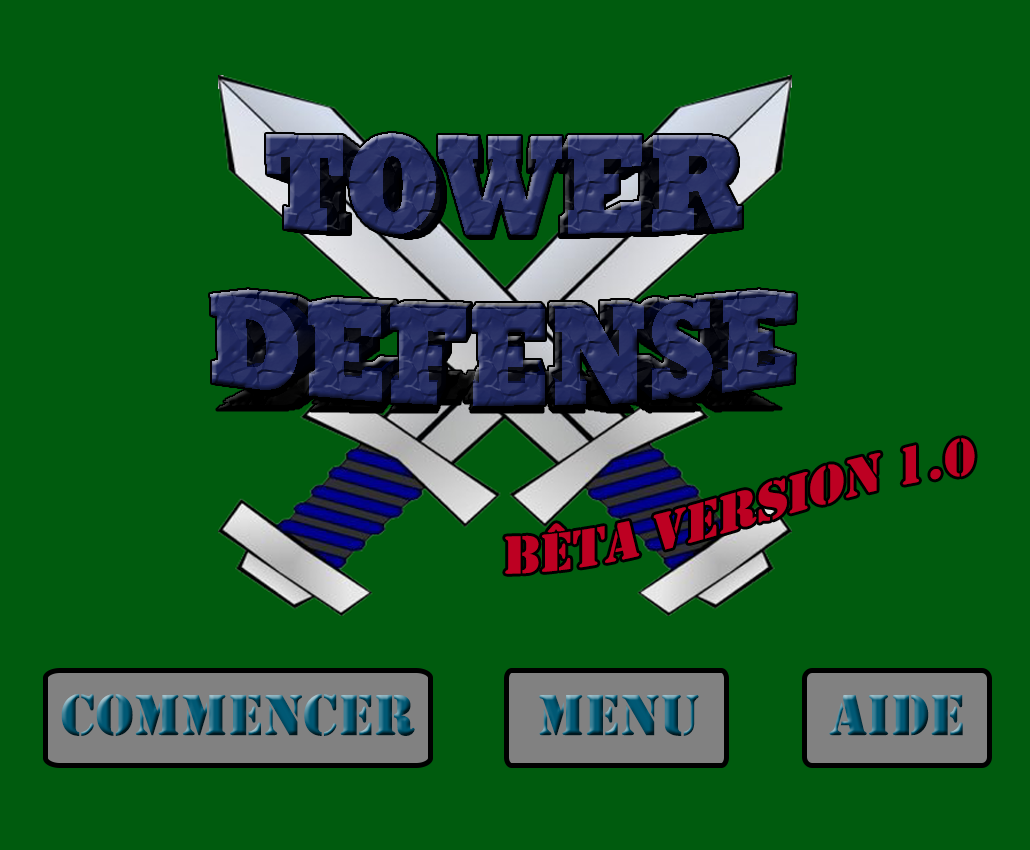
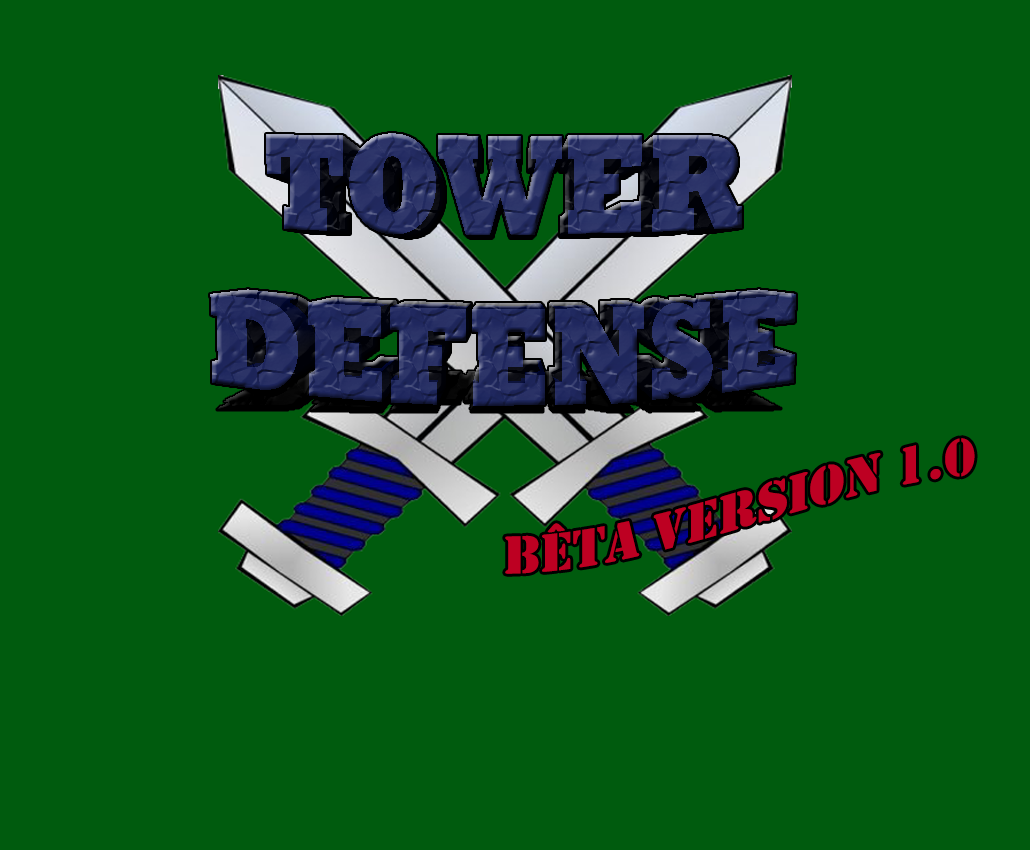
Debut responsive

Changed region(s): [[0.0311, 0.7647, 0.435, 0.9176], [0.466, 0.7647, 0.7146, 0.9176], [0.7767, 0.7647, 0.9631, 0.9176]]

diff --git a/main.cpp b/main.cpp
@@ -54,10 +54,15 @@ SDL_Texture  *textureChemin,
              *texturePorteeTour,
              *textureVitesseTir,
 
+             *textureBpCommencer,
+             *textureBpMenu,
+             *textureBpAide,
+
 
              *textureAccueil,
              *textureLogo;
-TTF_Font *font;
+TTF_Font *font,
+         *fontArgent;
 
 #include "Bouton.h"
 
@@ -227,6 +232,17 @@ void jeu(int numlevel)  // Fonction de gestion et d'affichage de la partie
     int itterations=0;      // Variable permettant d'arreter l'affichage des vagues au bout du nombre de vagues voulu
     int creation=0;
     int numeroEnnemi=0;
+
+    //Bouton Retour(1, 13, 8, 2, ::textureBpRe);
+    Bouton bpTourClassique(6, 0.2, 1.6, 1.6, ::textureBpTourClassique);
+    Bouton bpTourSniper(10, 0.2, 1.6, 1.6, ::textureBpTourSniper);
+    Bouton bpTourPoison(14, 0.2, 1.6, 1.6, ::textureBpTourPoison);
+    /*Bouton bpTourClassique(1, 13, 8, 2, ::textureBpCommencer);
+    Bouton bpTourClassique(1, 13, 8, 2, ::textureBpCommencer);
+    Bouton bpTourClassique(1, 13, 8, 2, ::textureBpCommencer);
+    Bouton bpTourClassique(1, 13, 8, 2, ::textureBpCommencer);
+    Bouton bpTourClassique(1, 13, 8, 2, ::textureBpCommencer);
+    Bouton bpTourClassique(1, 13, 8, 2, ::textureBpCommencer);*/
 
     while(!terminer && continuer==1)
     {
@@ -437,7 +453,7 @@ void jeu(int numlevel)  // Fonction de gestion et d'affichage de la partie
                 }
                 else if(xCaseTour!=-1 && listeCases[yCaseTour][xCaseTour]->getType()=="Case")
                 {
-                    if (x>303 && x<377 && y>10 && y<86                                                  // S'il on clique sur le bp Tour Classique
+                    if (bpTourClassique.clique(x, y)                                                  // S'il on clique sur le bp Tour Classique
                         && argent>=ARGENT_TOUR*TourClassique::multiplicateurCout)
                     {
                         //TOUR CLASSIQUE
@@ -450,7 +466,7 @@ void jeu(int numlevel)  // Fonction de gestion et d'affichage de la partie
                         xCaseTour = -1;
                         yCaseTour = -1;
                     }
-                    else if (x>503 && x<577 && y>10 && y<86                                             // S'il on clique sur le bp Tour Sniper
+                    else if (bpTourSniper.clique(x, y)                                             // S'il on clique sur le bp Tour Sniper
                              && argent>=ARGENT_TOUR*TourSniper::multiplicateurCout)
                     {
                         //TOUR SNIPER
@@ -463,7 +479,7 @@ void jeu(int numlevel)  // Fonction de gestion et d'affichage de la partie
                         xCaseTour = -1;
                         yCaseTour = -1;
                     }
-                    else if (x>703 && x<777 && y>10 && y<86                                             // S'il on clique sur le bp Tour Poison
+                    else if (bpTourPoison.clique(x, y)                                             // S'il on clique sur le bp Tour Poison
                              && argent>=ARGENT_TOUR*TourPoison::multiplicateurCout)
                     {
                         //TOUR POISON
@@ -648,12 +664,15 @@ void jeu(int numlevel)  // Fonction de gestion et d'affichage de la partie
             {
                 affichageArgent=1;
                 affichageTexture(textureBpAnnuler,200,10);
-                affichageTexture(textureBpTourClassique,300,10);
-                Ecrire("CollegiateInsideFLF",20,to_string(ARGENT_TOUR*TourClassique::multiplicateurCout)+"$",0,0,0,380,40);
-                affichageTexture(textureBpTourSniper,500,10);
-                Ecrire("CollegiateInsideFLF",20,to_string(ARGENT_TOUR*TourSniper::multiplicateurCout)+"$",0,0,0,580,40);
-                affichageTexture(textureBpTourPoison,700,10);
-                Ecrire("CollegiateInsideFLF",20,to_string(ARGENT_TOUR*TourPoison::multiplicateurCout)+"$",0,0,0,780,40);
+                //affichageTexture(textureBpTourClassique,300,10);
+                Ecrire("CollegiateInsideFLF",0.4,to_string(ARGENT_TOUR*TourClassique::multiplicateurCout)+"$",0,0,0,7.6,0.8);
+                //affichageTexture(textureBpTourSniper,500,10);
+                Ecrire("CollegiateInsideFLF",0.4,to_string(ARGENT_TOUR*TourSniper::multiplicateurCout)+"$",0,0,0,11.6,0.8);
+                //affichageTexture(textureBpTourPoison,700,10);
+                Ecrire("CollegiateInsideFLF",0.4,to_string(ARGENT_TOUR*TourPoison::multiplicateurCout)+"$",0,0,0,15.6,0.8);
+                bpTourClassique.affiche();
+                bpTourSniper.affiche();
+                bpTourPoison.affiche();
             }
             else
             {
@@ -661,15 +680,15 @@ void jeu(int numlevel)  // Fonction de gestion et d'affichage de la partie
 
                 // Affichage du nom de la tour
                 if (listeCases[yCaseTour][xCaseTour]->getType()=="TourClassique"){
-                    Ecrire("CollegiateInsideFLF",25,"Tour Classique :",0,0,0,180,15);
+                    Ecrire("CollegiateInsideFLF",0.5,"Tour Classique :",0,0,0,3.6,0.3);
                 }
 
                 else if (listeCases[yCaseTour][xCaseTour]->getType()=="TourSniper"){
-                    Ecrire("CollegiateInsideFLF",25,"Tour Sniper :",0,0,0,180,15);
+                    Ecrire("CollegiateInsideFLF",0.5,"Tour Sniper :",0,0,0,3.6,0.3);
                 }
 
                 else if (listeCases[yCaseTour][xCaseTour]->getType()=="TourPoison"){
-                    Ecrire("CollegiateInsideFLF",25,"Tour Poison :",0,0,0,180,15);
+                    Ecrire("CollegiateInsideFLF",0.5,"Tour Poison :",0,0,0,180,0.3);
                 }
 
                 affichageTexture(textureBpEffacer,400,10);
@@ -686,8 +705,8 @@ void jeu(int numlevel)  // Fonction de gestion et d'affichage de la partie
         }
 
         // Affichage du bp retour
-        Ecrire("WingdingReview",40,"ñ",255,255,255,50,50);
-        Ecrire("CollegiateInsideFLF",25,"Retour",255,255,255,30,25);
+        Ecrire("CollegiateInsideFLF",0.5,"Retour",255,255,255,0.6,0.5);
+        Ecrire("WingdingReview",0.8,"ñ",255,255,255,1,1);
 
         if (listeCases[yChateau][xChateau]->action()==1){                               // Si le chateau n'a plus de vie
             compteurImage=0;
@@ -695,7 +714,7 @@ void jeu(int numlevel)  // Fonction de gestion et d'affichage de la partie
             while (compteurImage<150){                                      // Affichage du fond Game Over pendant 5s
                 SDL_SetRenderDrawColor(renderer, 0,127,127,255);
                 SDL_RenderClear(renderer);
-                Ecrire("CollegiateBlackFLF",42,"GAME OVER",255,255,255,440,300);
+                Ecrire("CollegiateBlackFLF",0.84,"GAME OVER",255,255,255,8.8,6);
                 SDL_RenderPresent(renderer);
                 SDL_Delay(30);
                 compteurImage++;
@@ -763,6 +782,9 @@ int initSDL()
     SDL_SetHint( SDL_HINT_RENDER_SCALE_QUALITY, "1" );
 
 
+    fontArgent =  TTF_OpenFont("fonts/CollegiateFLF.ttf", 0.8*TAILLE_CASE);
+
+
     chargeTexture(textureCadence, "bpAmeliorationCadence.png");
     chargeTexture(textureDegatTir, "bpAmeliorationDegatTir.png");
     chargeTexture(texturePorteeTour, "bpAmeliorationPorteeTour.png");
@@ -791,6 +813,9 @@ int initSDL()
     chargeTexture(textureTirClassique, "tirClassique.png");
     chargeTexture(textureTirSniper, "tirSniper.png");
     chargeTexture(textureTirAerien, "tirAerien.png");
+    chargeTexture(textureBpCommencer, "bpCommencer.png");
+    chargeTexture(textureBpMenu, "bpMenu.png");
+    chargeTexture(textureBpAide, "bpAide.png");
 
     for(int i=0;i<NB_CASE_FOND;i++){
         chargeTexture(textureCase[i], "case"+to_string(i)+".png");
@@ -819,6 +844,7 @@ int main(int argc, char **argv) // Boucle principale avec appel de chaque foncti
     quitListeCase();
     infos();
     SDL_DestroyWindow(fenetre);
+    TTF_CloseFont(fontArgent);
     TTF_Quit();
     SDL_Quit();
     return 0;

diff --git a/include/VariablesSDL.h b/include/VariablesSDL.h
@@ -1,6 +1,8 @@
 #ifndef VARIABLES2_H
 #define VARIABLES2_H
 
+#include <SDL2/SDL_ttf.h>
+
 extern SDL_Window* fenetre;
 extern SDL_Renderer* renderer;
 extern SDL_Texture  *textureChemin,
@@ -25,11 +27,29 @@ extern SDL_Texture  *textureChemin,
                     *textureTirSniper,
                     *textureTirAerien,
 
+                    *textureExplosion[TEMPS_ANIM_TIR],
+
                     *textureEnnemiVolant[NB_IMAGE_ENNEMI_VOLANT],
                     *textureEnnemiRapide[NB_IMAGE_ENNEMI_RAPIDE],
                     *textureCase[NB_CASE_FOND],
                     *textureTourFond[NB_TOUR_FOND],
 
-                    *textureExplosion[TEMPS_ANIM_TIR];
+                    *textureBpTourSniper,
+                    *textureBpTourClassique,
+                    *textureBpTourPoison,
+                    *textureBpEffacer,
+                    *textureBpAnnuler,
+                    *textureCadence,
+                    *textureDegatTir,
+                    *texturePorteeTour,
+                    *textureVitesseTir,
+
+                    *textureBpCommencer,
+                    *textureBpMenu,
+                    *textureBpAide,
+
+                    *textureAccueil,
+                    *textureLogo;
+extern TTF_Font* fontArgent;
 
 #endif // VARIABLES2_H

diff --git a/src/Bouton.cpp b/src/Bouton.cpp
@@ -1,6 +1,6 @@
 #include "Bouton.h"
 
-Bouton::Bouton(int x,int y, int w, int h, SDL_Texture* textureBouton):
+Bouton::Bouton(double x,double y, double w, double h, SDL_Texture* textureBouton):
     dest({x*TAILLE_CASE, y*TAILLE_CASE, w*TAILLE_CASE, h*TAILLE_CASE}),
     textureBouton(textureBouton)
 {

diff --git a/include/Bouton.h b/include/Bouton.h
@@ -8,7 +8,7 @@
 class Bouton
 {
     public:
-        Bouton(int x,int y, int w, int h, SDL_Texture* textureBouton);
+        Bouton(double x,double y, double w, double h, SDL_Texture* textureBouton);
         bool clique(int xMouse, int yMouse);
         void affiche();
 

diff --git a/include/Constantes.h b/include/Constantes.h
@@ -10,7 +10,7 @@ const int FREQUENCE_EFFET = 30;
 
 const int MARGE_GAUCHE=30;
 const int MARGE_HAUT=100;
-const int TAILLE_CASE = 50;
+const int TAILLE_CASE = 20;
 const int TAILLE_ENNEMI = 30;
 const int TAILLE_X_TIR = 30;
 const int TAILLE_Y_TIR = 6;
